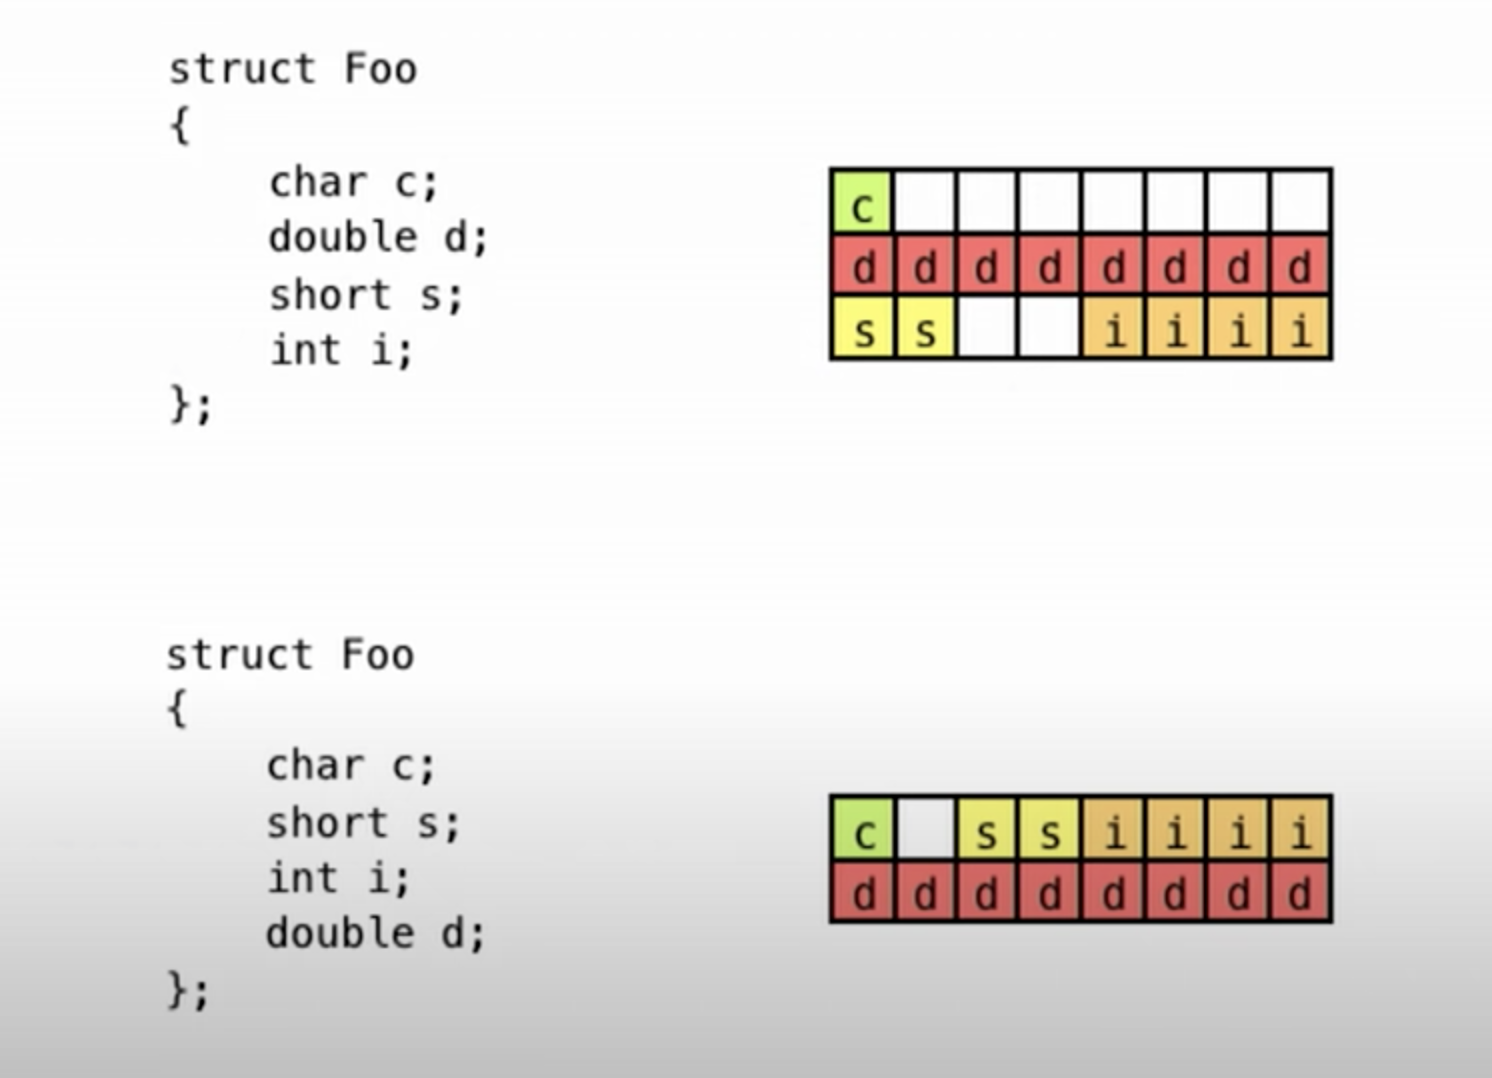
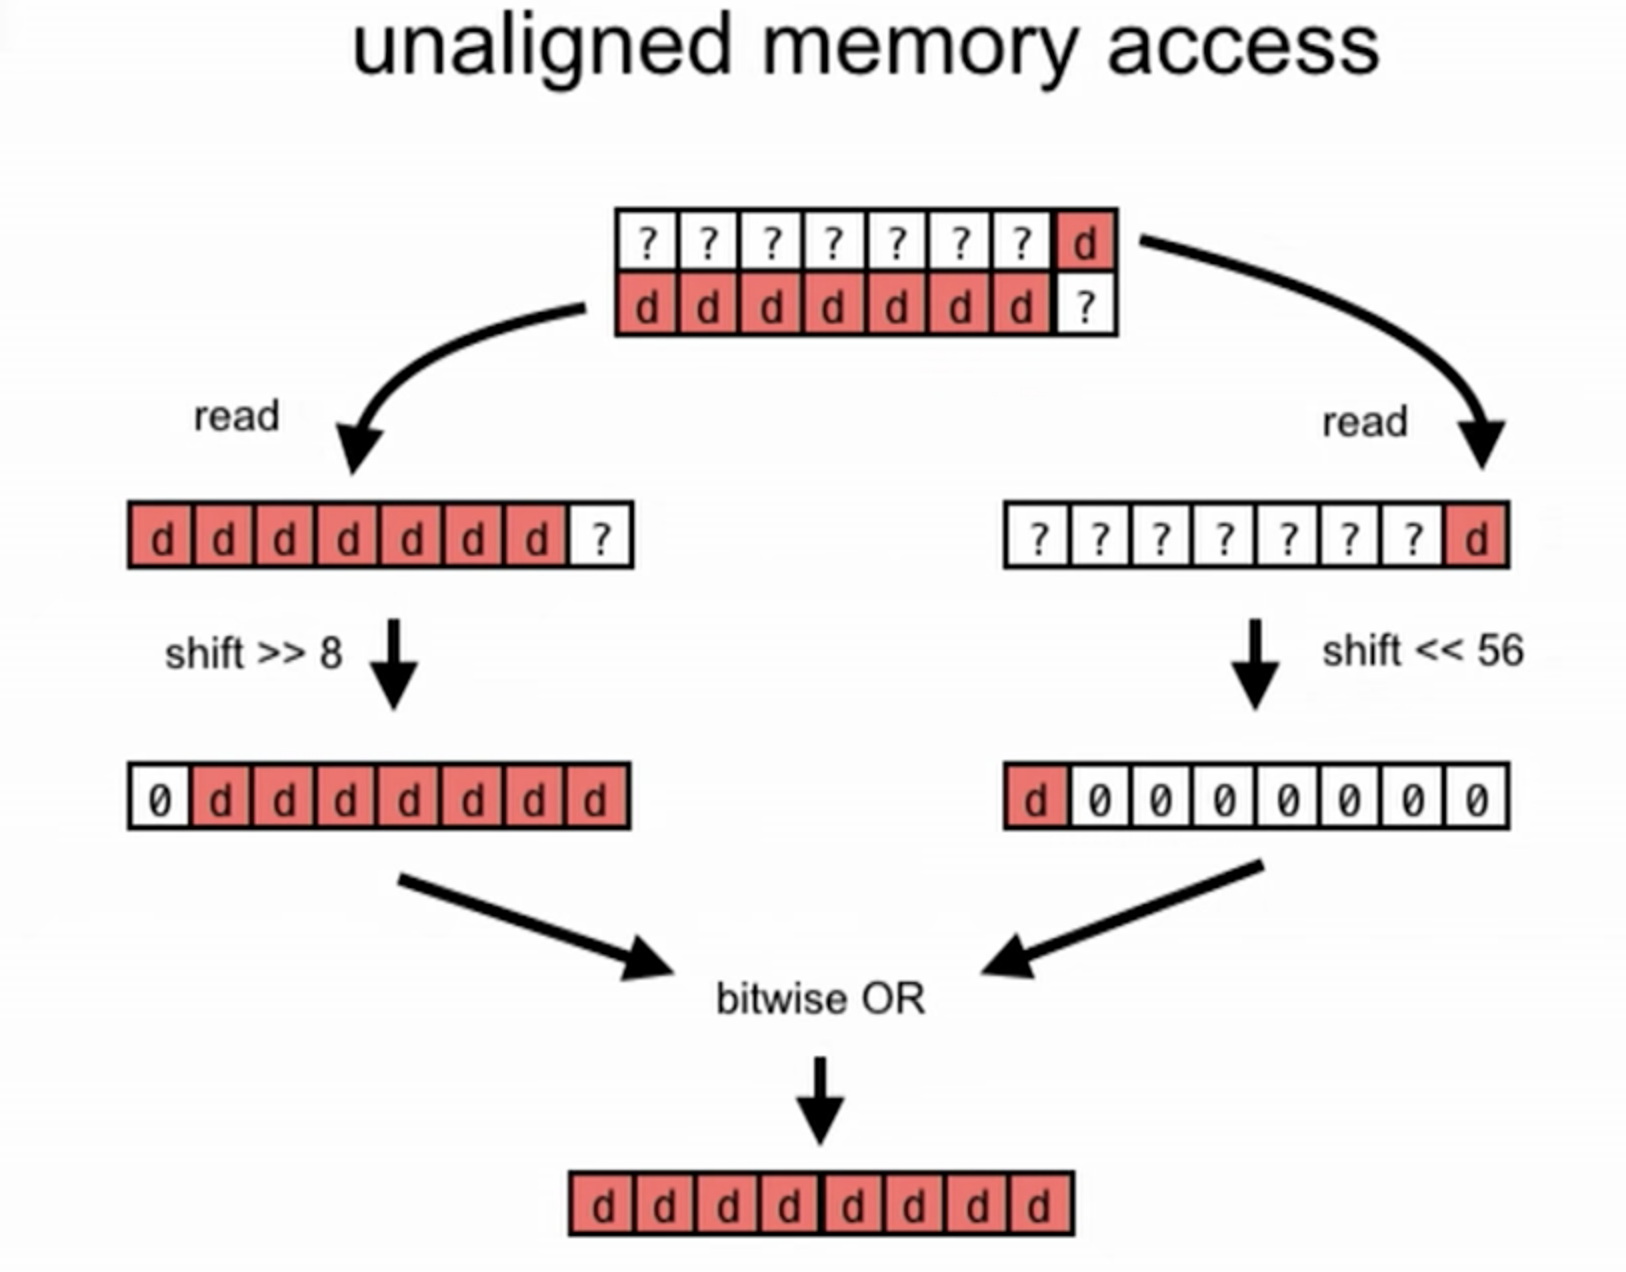
GitBook: [master] one page and 2 assets modified

diff --git a/c++/cppcon/want-fast-c++-know-your-hardware.md b/c++/cppcon/want-fast-c++-know-your-hardware.md
@@ -20,5 +20,7 @@ Alignof -&gt; data objects in memory are aligned at specific location
 
 _\_attribute\__\(\(packed\)\)
 
+![](../../.gitbook/assets/image%20%28196%29.png)
+
 ![](../../.gitbook/assets/image%20%28195%29.png)
 
